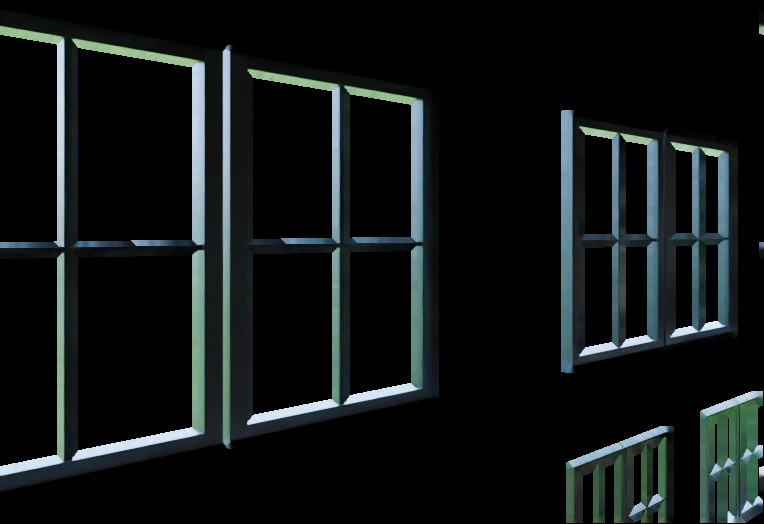
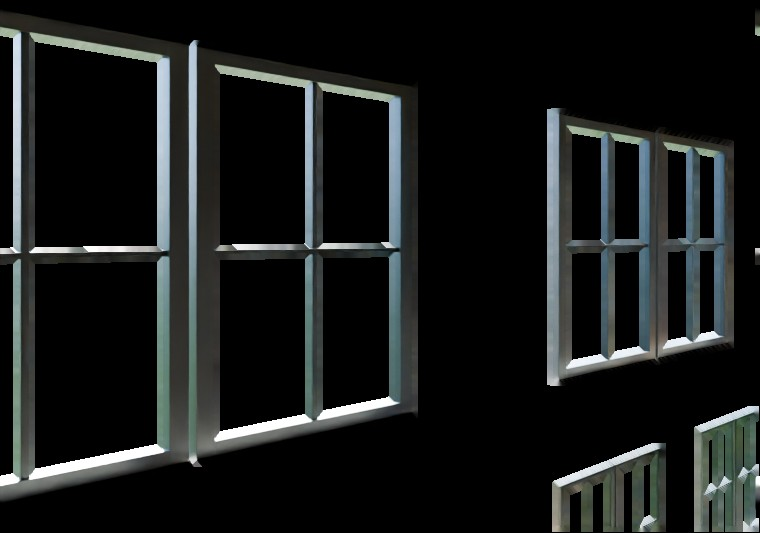
The Lookout 3500 2.0: loft
The Lookout 3500 2.0 page: a picture redone.

- Upstairs loft re-rendered: afternoon sun, cased windows with curtains, a desk by the window; crown molding as a choice, wall paint and window frames as before.

Claude-Session: https://claude.ai/code/session_01LcUu1yMTHs7qUW5E51HSvp

diff --git a/lookout/site.js b/lookout/site.js
@@ -1,1 +1,1 @@
-window.SJ={"name":"The Lookout 3500 2.0","slug":"the-lookout-3500-2","tag":"One-and-a-half-story plan","sub":"Four bedrooms and three and a half baths in 3,760 square feet, with the primary suite on the main level, a lookout room on the roof and a three-car garage.","stats":[["3,760","sq ft finished"],["4","bedrooms"],["3.5","baths"],["3","car garage"],["Main-level","primary suite"],["14 x 16","lookout room"]],"hero":{"day":"img/hero-day.jpg","night":""},"views":[{"id":"hero","name":"Front","kind":"ext","keys":["fas","fd","fdc","g","gdc","lk","prf","pst","rof","sid","trm","win"]},{"id":"yard","name":"Back yard","kind":"ext","keys":["fas","g","lk","pl","prf","pst","rof","sid","trm","win"]},{"id":"great","name":"Living room","kind":"int","keys":["bi","clg","cr","flr","fp","hwc","idc","ids","wal","win"]},{"id":"kitchen","name":"Kitchen","kind":"int","keys":["bsp","cab","cr","ctr","flr","hwc","isl","wal","win"]},{"id":"dining","name":"Dining room","kind":"int","keys":["cr","flr","wal","win"]},{"id":"foyer","name":"Foyer","kind":"int","keys":["cr","fd","fdc","flr","hwc","sf","sr","wal","win"]},{"id":"primary","name":"Primary bedroom","kind":"int","keys":["cr","flr","wal","win"]},{"id":"bath","name":"Primary bath","kind":"int","keys":["btl","cr","ctr","hwc","shw","vcab","wal","win"]},{"id":"office","name":"Loft over the primary closet","kind":"int","keys":["cr","flr","hwc","lof","sf","sr","wal","win"]},{"id":"loft","name":"Upstairs loft","kind":"int","keys":["wal","win"]},{"id":"lookout","name":"Lookout room","kind":"int","keys":["sf","sr","wal","win"],"veil":{"when":{"lk":"0"},"keys":["sf","sr","wal","win"],"note":"Shows in this picture when the lookout room is chosen"}},{"id":"bed2","name":"Bedroom 2","kind":"int","keys":["cpt","uf","wal","win"]},{"id":"bed4","name":"Bedroom 4","kind":"int","keys":["cpt","hwc","idc","uf","wal","win"]},{"id":"lounge","name":"Lower level lounge","kind":"int","keys":["b","cab","ctr","hwc","isl","wal"],"veil":{"when":{"b":"u"},"keys":["cab","ctr","hwc","isl","wal"],"note":"Shows in this picture once the lower level is finished"}},{"id":"bar","name":"Lower level bar","kind":"int","keys":["b","ctr","hwc","isl","wal"],"veil":{"when":{"b":"u"},"keys":["ctr","hwc","isl","wal"],"note":"Shows in this picture once the lower level is finished"}}],"baths":[],"bathkeys":[],"opts":[{"key":"lk","name":"Lookout room","cat":"ext","ch":[{"id":"1","name":"Lookout room on the roof (as drawn)"},{"id":"0","name":"No lookout"}],"note":"The lookout room sits on the roof, 14 x 16 ft with windows all around, reached by its own stair."},{"key":"g","name":"Garage entry","cat":"ext","ch":[{"id":"f","name":"Front entry (as drawn)"},{"id":"s","name":"Side entry, with a motor court"}],"note":"Side entry: the garage wing is re-proportioned and its doors face a motor court at the side; windows take their place on the front."},{"key":"pl","name":"Pool","cat":"ext","ch":[{"id":"n","name":"No pool (as drawn)"},{"id":"1","name":"Lap pool, 10 x 45 ft"},{"id":"2","name":"Plunge pool with a raised spa"},{"id":"3","name":"Courtyard pool with a shade pavilion"}],"note":"The pools sit behind the covered deck, on a paved terrace one step above the lawn."},{"key":"sid","name":"Siding colour","cat":"ext","ch":[{"id":"white","name":"Chantilly White","css":"#F1EFE8"},{"id":"cream","name":"Warm Cream","css":"#E6DCC6"},{"id":"greige","name":"Pebble Greige","css":"#B9B2A3"},{"id":"sage","name":"Sage","css":"#8E9A86"},{"id":"blue","name":"Harbor Blue","css":"#5E768A"},{"id":"navy","name":"Midnight Navy","css":"#28364A"},{"id":"iron","name":"Iron Gray","css":"#45484A"},{"id":"black","name":"Tricorn Black","css":"#222325"}]},{"key":"trm","name":"Trim and corner boards","cat":"ext","ch":[{"id":"white","name":"White","css":"#F4F2EC"},{"id":"cream","name":"Cream","css":"#E9E1CF"},{"id":"black","name":"Black","css":"#1E1F21"},{"id":"bronze","name":"Dark Bronze","css":"#3A322B"}]},{"key":"rof","name":"Roof shingles","cat":"ext","ch":[{"id":"char","name":"Charcoal","css":"linear-gradient(180deg,#33353A 0 50%,#45474C 50%)"},{"id":"onyx","name":"Onyx Black","css":"linear-gradient(180deg,#1D1E21 0 50%,#2A2B2F 50%)"},{"id":"wood","name":"Weathered Wood","css":"linear-gradient(180deg,#5E554B 0 50%,#7A6F62 50%)"},{"id":"slate","name":"Slate Gray","css":"linear-gradient(180deg,#4D5560 0 50%,#69717C 50%)"},{"id":"brown","name":"Barkwood","css":"linear-gradient(180deg,#41342B 0 50%,#5B4A3D 50%)"}]},{"key":"prf","name":"Porch, lookout and accent roofs","cat":"ext","ch":[{"id":"metal","name":"Black standing seam","css":"repeating-linear-gradient(90deg,#1b1c1f 0 7px,#34363a 7px 9px)"},{"id":"copper","name":"Copper standing seam","css":"repeating-linear-gradient(90deg,#9A5A34 0 7px,#c07c4c 7px 9px)"},{"id":"match","name":"Shingles to match","css":"repeating-linear-gradient(0deg,#2a2b2f 0 5px,#1d1e21 5px 10px)"}]},{"key":"fas","name":"Gutters and downspouts","cat":"ext","ch":[{"id":"white","name":"White","css":"#F2F0EA"},{"id":"black","name":"Black","css":"#1B1C1E"},{"id":"bronze","name":"Dark Bronze","css":"#3A322B"}]},{"key":"win","name":"Window frames","cat":"ext","ch":[{"id":"black","name":"Black","css":"#18191B"},{"id":"white","name":"White","css":"#F0EEE8"},{"id":"bronze","name":"Bronze","css":"#3B3129"},{"id":"clay","name":"Clay","css":"#A89F8E"}]},{"key":"fd","name":"Front door","cat":"ext","ch":[{"id":"g","name":"Double doors, glass over a panel"},{"id":"s","name":"Steel-look glass double doors"},{"id":"c","name":"Craftsman door with sidelights"},{"id":"p","name":"Panelled double doors"}],"note":"Every design comes with a transom over the door; its colour is the next choice."},{"key":"fdc","name":"Front door colour","cat":"ext","ch":[{"id":"wood","name":"Stained Walnut","css":"linear-gradient(135deg,#6A4226,#4A2C18)"},{"id":"black","name":"Black","css":"#161719"},{"id":"navy","name":"Navy","css":"#22324A"},{"id":"red","name":"Barn Red","css":"#6E1F1B"},{"id":"teal","name":"Deep Teal","css":"#1F4A4C"},{"id":"sage","name":"Sage","css":"#7C8A74"},{"id":"white","name":"White","css":"#F0EEE8"}]},{"key":"gdc","name":"Garage door colour","cat":"ext","ch":[{"id":"white","name":"White","css":"#EFEDE7"},{"id":"black","name":"Black","css":"#18191B"},{"id":"iron","name":"Iron Gray","css":"#4A4C4E"},{"id":"bronze","name":"Bronze","css":"#3B3129"},{"id":"wood","name":"Walnut","css":"linear-gradient(135deg,#6A4226,#4A2C18)"}]},{"key":"pst","name":"Porch posts and beams","cat":"ext","ch":[{"id":"cedar","name":"Stained cedar","css":"linear-gradient(135deg,#96663A,#774E28)"},{"id":"white","name":"White","css":"#EFEDE7"},{"id":"black","name":"Black","css":"#1F2022"}]},{"key":"b","name":"Lower level","cat":"int","ch":[{"id":"u","name":"Unfinished (as drawn)"},{"id":"f","name":"Finished"}]},{"key":"lof","name":"Loft over the primary closet","cat":"int","ch":[{"id":"o","name":"Home office"},{"id":"l","name":"Library"},{"id":"r","name":"Retreat"}],"note":"The room over the primary closet, up its own spiral stair: 13 x 11 ft with windows on all four sides."},{"key":"clg","name":"Living room ceiling","cat":"int","ch":[{"id":"c","name":"Coffered, painted"},{"id":"o","name":"Coffered, oak beams"},{"id":"b","name":"Timber beams"},{"id":"t","name":"Tray ceiling"}],"note":"Coffers: nine panels framed by beams, centred on the fireplace, with a ring chandelier in the middle."},{"key":"cr","name":"Crown molding","cat":"int","ch":[{"id":"n","name":"None"},{"id":"c","name":"Classic crown, 5 1/4 in."},{"id":"f","name":"Craftsman, flat with a cap"}],"note":"Runs on every wall that meets a flat ceiling: the main level, upstairs, the lookout room, the loft over the closet and the finished lower level."},{"key":"fp","name":"Fireplace","cat":"int","ch":[{"id":"stone","name":"Stacked stone (as drawn)","css":"repeating-linear-gradient(0deg,#8f887c 0 4px,#6f695f 4px 5px)"},{"id":"white","name":"White stacked stone","css":"repeating-linear-gradient(0deg,#E9E6DF 0 4px,#c4c0b7 4px 5px)"},{"id":"brick","name":"Red brick","css":"repeating-linear-gradient(0deg,#8E4A36 0 5px,#B9B2A6 5px 6px)"},{"id":"wbrick","name":"White painted brick","css":"repeating-linear-gradient(0deg,#EDEAE3 0 5px,#cfcbc2 5px 6px)"},{"id":"slate","name":"Charcoal slate tile","css":"repeating-linear-gradient(90deg,#3B3D40 0 12px,#1F2022 12px 13px)"}]},{"key":"bi","name":"Fireplace built-ins","cat":"int","ch":[{"id":"c","name":"Cabinets with oak tops (as drawn)"},{"id":"s","name":"Cabinets and shelves to the ceiling"},{"id":"n","name":"None"}],"note":"The built-ins stand on both sides of the fireplace."},{"key":"ids","name":"Interior door style","cat":"int","ch":[{"id":"s","name":"Two-panel Shaker"},{"id":"f","name":"Five-panel"},{"id":"c","name":"Craftsman, three-panel"}],"note":"8 ft doors on the main level, 6 ft 8 in. upstairs; every opening is cased, with a cap over the head."},{"key":"idc","name":"Interior doors","cat":"int","ch":[{"id":"white","name":"White","css":"#F2F0EA"},{"id":"black","name":"Black","css":"#1E1F21"},{"id":"grey","name":"Gray","css":"#8F9190"},{"id":"oak","name":"Natural oak","css":"linear-gradient(135deg,#B9905E,#A67C4C)"}]},{"key":"sf","name":"Stair treads and handrails","cat":"int","ch":[{"id":"o","name":"Natural oak (as drawn)","css":"linear-gradient(135deg,#B9905E,#A67C4C)"},{"id":"d","name":"Walnut","css":"linear-gradient(135deg,#6A4A32,#573B27)"},{"id":"k","name":"Ebony","css":"linear-gradient(135deg,#30261F,#211A15)"},{"id":"w","name":"Whitewashed oak","css":"linear-gradient(135deg,#D9CDB8,#C9BCA4)"}]},{"key":"sr","name":"Stair balusters","cat":"int","ch":[{"id":"k","name":"Black iron","css":"#141414"},{"id":"w","name":"White","css":"#EFEDE7"},{"id":"b","name":"Satin brass","css":"#B08A4A"}]},{"key":"flr","name":"Hardwood flooring","cat":"int","ch":[{"id":"oak","name":"Natural Oak Plank","css":"repeating-linear-gradient(90deg,#B08F68 0 9px,#9C7B55 9px 18px)"},{"id":"honey","name":"Honey Oak","css":"repeating-linear-gradient(90deg,#B8834A 0 9px,#A2703C 9px 18px)"},{"id":"grey","name":"Driftwood Gray","css":"repeating-linear-gradient(90deg,#9A9288 0 9px,#857D73 9px 18px)"},{"id":"walnut","name":"Walnut","css":"repeating-linear-gradient(90deg,#6A4A32 0 9px,#573B27 9px 18px)"},{"id":"white","name":"Whitewashed","css":"repeating-linear-gradient(90deg,#CFC3B0 0 9px,#BFB29E 9px 18px)"}]},{"key":"uf","name":"Bedroom flooring","cat":"int","ch":[{"id":"c","name":"Carpet (as shown)","css":"repeating-linear-gradient(45deg,#C9C0AE 0 3px,#BDB4A2 3px 6px)"},{"id":"oak","name":"Natural Oak Plank","css":"repeating-linear-gradient(90deg,#B08F68 0 9px,#9C7B55 9px 18px)"},{"id":"honey","name":"Honey Oak","css":"repeating-linear-gradient(90deg,#B8834A 0 9px,#A2703C 9px 18px)"},{"id":"grey","name":"Driftwood Gray","css":"repeating-linear-gradient(90deg,#9A9288 0 9px,#857D73 9px 18px)"},{"id":"walnut","name":"Walnut","css":"repeating-linear-gradient(90deg,#6A4A32 0 9px,#573B27 9px 18px)"},{"id":"white","name":"Whitewashed","css":"repeating-linear-gradient(90deg,#CFC3B0 0 9px,#BFB29E 9px 18px)"}]},{"key":"cpt","name":"Carpet","cat":"int","ch":[{"id":"oat","name":"Oatmeal","css":"#C9C0AE"},{"id":"grey","name":"Silver","css":"#B5B3AE"},{"id":"taupe","name":"Taupe","css":"#A39685"}],"only":{"uf":"c"}},{"key":"wal","name":"Wall paint","cat":"int","ch":[{"id":"alab","name":"Alabaster","css":"#EDEAE0"},{"id":"grey","name":"Agreeable Gray","css":"#D1CBC1"},{"id":"greige","name":"Accessible Beige","css":"#D1C7B8"},{"id":"blue","name":"Sea Salt","css":"#CDD2CA"},{"id":"white","name":"Pure White","css":"#F2F0EB"}]},{"key":"cab","name":"Kitchen cabinets","cat":"int","ch":[{"id":"white","name":"White Shaker","css":"#EFEDE7"},{"id":"grey","name":"Dove Gray","css":"#A9ABA8"},{"id":"sage","name":"Sage","css":"#8A967F"},{"id":"navy","name":"Navy","css":"#27364B"},{"id":"black","name":"Black","css":"#1F2022"},{"id":"oak","name":"Natural Oak","css":"linear-gradient(135deg,#B9905E,#A67C4C)"}]},{"key":"isl","name":"Island and range hood","cat":"int","ch":[{"id":"navy","name":"Navy","css":"#27364B"},{"id":"white","name":"White","css":"#EFEDE7"},{"id":"oak","name":"Natural Oak","css":"linear-gradient(135deg,#B9905E,#A67C4C)"},{"id":"black","name":"Black","css":"#1F2022"},{"id":"sage","name":"Sage","css":"#8A967F"}]},{"key":"ctr","name":"Countertops","cat":"int","ch":[{"id":"white","name":"White Quartz","css":"#EEEBE4"},{"id":"marble","name":"Marble-look Quartz","css":"linear-gradient(120deg,#ECE9E3 0 40%,#b9b6ae 44%,#ECE9E3 48% 70%,#c9c6be 74%,#ECE9E3 78%)"},{"id":"black","name":"Black Granite","css":"linear-gradient(120deg,#17181A 0 55%,#4a4a48 60%,#17181A 65%)"},{"id":"grey","name":"Concrete Gray","css":"#9A9894"}]},{"key":"bsp","name":"Backsplash","cat":"int","ch":[{"id":"slab","name":"Marble slab","css":"linear-gradient(120deg,#ECE9E3 0 40%,#b9b6ae 44%,#ECE9E3 48% 70%,#c9c6be 74%,#ECE9E3 78%)"},{"id":"subway","name":"White Subway","css":"repeating-linear-gradient(0deg,#F0EEE8 0 8px,#cfccc4 8px 9px)"},{"id":"green","name":"Sage Zellige","css":"repeating-linear-gradient(0deg,#8FA08A 0 8px,#6f806a 8px 9px)"},{"id":"grey","name":"Gray Subway","css":"repeating-linear-gradient(0deg,#B4B6B4 0 8px,#8f918f 8px 9px)"},{"id":"black","name":"Black Subway","css":"repeating-linear-gradient(0deg,#232426 0 8px,#6A6A68 8px 9px)"}]},{"key":"vcab","name":"Bathroom vanities","cat":"int","ch":[{"id":"oak","name":"Natural oak","css":"linear-gradient(135deg,#B9905E,#A67C4C)"},{"id":"white","name":"White","css":"#EFEDE7"},{"id":"navy","name":"Navy","css":"#27364B"},{"id":"sage","name":"Sage","css":"#8A967F"},{"id":"black","name":"Black","css":"#1F2022"},{"id":"walnut","name":"Walnut","css":"linear-gradient(135deg,#6A4A32,#573B27)"}]},{"key":"shw","name":"Shower walls","cat":"int","ch":[{"id":"slab","name":"Marble slab","css":"linear-gradient(120deg,#ECE9E3 0 40%,#b9b6ae 44%,#ECE9E3 48% 70%,#c9c6be 74%,#ECE9E3 78%)"},{"id":"subway","name":"White subway tile","css":"repeating-linear-gradient(0deg,#F0EEE8 0 8px,#cfccc4 8px 9px)"},{"id":"zel","name":"Sage zellige","css":"repeating-linear-gradient(0deg,#8FA08A 0 8px,#6f806a 8px 9px)"},{"id":"slate","name":"Charcoal slate","css":"repeating-linear-gradient(90deg,#3B3D40 0 14px,#1F2022 14px 15px)"},{"id":"trav","name":"Warm limestone","css":"repeating-linear-gradient(90deg,#D9CDB8 0 14px,#B8AC96 14px 15px)"}],"note":"The primary bath's wet room, and the wall behind the tub in each upstairs bath."},{"key":"btl","name":"Bath floor tile","cat":"int","ch":[{"id":"w","name":"White porcelain","css":"repeating-linear-gradient(90deg,#EDEBE6 0 12px,#B9B6AE 12px 13px)"},{"id":"g","name":"Warm gray","css":"repeating-linear-gradient(90deg,#B9B2A6 0 12px,#8C867B 12px 13px)"},{"id":"m","name":"Marble look","css":"linear-gradient(120deg,#ECEAE6 0 40%,#c4c1bb 46%,#ECEAE6 52%)"},{"id":"c","name":"Charcoal slate","css":"repeating-linear-gradient(90deg,#4A4C4F 0 12px,#2C2D2F 12px 13px)"}]},{"key":"hwc","name":"Hardware and faucets","cat":"int","ch":[{"id":"brass","name":"Satin Brass","css":"#B08A4A"},{"id":"black","name":"Matte Black","css":"#101011"},{"id":"nickel","name":"Satin Nickel","css":"#9A9A98"}]}],"defaults":{"sid":"white","trm":"white","fas":"white","win":"black","fdc":"wood","gdc":"white","rof":"char","prf":"metal","lk":"1","g":"f","b":"u","pl":"n","fd":"g","pst":"cedar","clg":"c","cr":"n","fp":"stone","bi":"c","sf":"o","sr":"k","idc":"white","ids":"s","lof":"o","hwc":"brass","wal":"alab","cab":"white","isl":"navy","ctr":"marble","bsp":"slab","vcab":"oak","shw":"slab","btl":"w","flr":"oak","cpt":"oat","uf":"c"},"gallery":[],"looks":[{"cat":"ext","name":"Modern farmhouse (as drawn)","set":{}},{"cat":"ext","name":"Midnight and copper","set":{"sid":"navy","prf":"copper","gdc":"wood","rof":"onyx"}},{"cat":"ext","name":"Sage cottage","set":{"sid":"sage","trm":"cream","fas":"bronze","win":"white","rof":"wood","fdc":"navy","fd":"c"}},{"cat":"ext","name":"Charcoal modern","set":{"sid":"iron","trm":"black","fas":"black","rof":"onyx","gdc":"black","fdc":"black","fd":"s"}},{"cat":"ext","name":"Coastal blue","set":{"sid":"blue","win":"white","rof":"slate","fdc":"navy"}},{"cat":"ext","name":"Warm greige","set":{"sid":"greige","trm":"cream","fas":"bronze","win":"bronze","rof":"brown","gdc":"bronze","fd":"p"}},{"cat":"ext","name":"Black barn","set":{"sid":"black","trm":"black","fas":"black","gdc":"wood","prf":"copper","fd":"p"}},{"cat":"int","name":"Light and warm (as shown)","set":{}},{"cat":"int","name":"Warm oak","set":{"isl":"oak","ctr":"marble","flr":"honey","wal":"greige","clg":"o","cr":"f","ids":"c"}},{"cat":"int","name":"Deep and moody","set":{"cab":"navy","bsp":"grey","flr":"walnut","wal":"grey","idc":"black","clg":"b","cr":"c","vcab":"navy","shw":"slate","lof":"l"}},{"cat":"int","name":"Scandinavian","set":{"isl":"white","flr":"white","wal":"white","hwc":"black","clg":"t","ids":"f","vcab":"white","shw":"subway"}},{"cat":"int","name":"Sage kitchen","set":{"cab":"sage","isl":"oak","bsp":"green","vcab":"sage","shw":"zel","lof":"r"}},{"cat":"int","name":"Black and white","set":{"cab":"black","isl":"white","ctr":"marble","flr":"grey","wal":"white","hwc":"nickel","idc":"black","ids":"c","cr":"c","vcab":"black","shw":"subway"}},{"cat":"int","name":"Everything added","set":{"cr":"c","clg":"o","bi":"s","ids":"c","lof":"l","b":"f"}}],"plan_lead":"Each level seen from straight above, with everything over it taken away. Furniture is illustrative.","plans":[{"id":"main_f","name":"Main level","note":"2,144 sq ft: living, dining and kitchen in the core, the primary suite in its own wing, a three-car garage","svg":"<img src=\"img/plan-main_f.jpg\" alt=\"Main level, seen from above with the levels over it taken away\" style=\"width:100%;height:auto;display:block;border-radius:10px\">"},{"id":"main_s","name":"Main level, side-entry garage","note":"The same rooms; the garage wing is re-proportioned and entered from a motor court at the side","svg":"<img src=\"img/plan-main_s.jpg\" alt=\"Main level, side-entry garage, seen from above with the levels over it taken away\" style=\"width:100%;height:auto;display:block;border-radius:10px\">"},{"id":"upper","name":"Upstairs","note":"1,224 sq ft: three bedrooms, two baths, the loft and a laundry; the office loft sits over the primary closet","svg":"<img src=\"img/plan-upper.jpg\" alt=\"Upstairs, seen from above with the levels over it taken away\" style=\"width:100%;height:auto;display:block;border-radius:10px\">"},{"id":"look","name":"Lookout","note":"224 sq ft: the lookout room on the roof, windows on all four sides","svg":"<img src=\"img/plan-look.jpg\" alt=\"Lookout, seen from above with the levels over it taken away\" style=\"width:100%;height:auto;display:block;border-radius:10px\">"},{"id":"bsmt_u","name":"Lower level","note":"Unfinished, as drawn: a safe room, mechanical space and rough-ins for a bath and a wet bar","svg":"<img src=\"img/plan-bsmt_u.jpg\" alt=\"Lower level, seen from above with the levels over it taken away\" style=\"width:100%;height:auto;display:block;border-radius:10px\">"},{"id":"bsmt_f","name":"Lower level, finished","note":"Lounge, bar, gym, bath and sauna, with the safe room, storage and mechanical space","svg":"<img src=\"img/plan-bsmt_f.jpg\" alt=\"Lower level, finished, seen from above with the levels over it taken away\" style=\"width:100%;height:auto;display:block;border-radius:10px\">"}],"lot":null,"specs":[{"h":"The home","items":["3,760 sq ft finished: 2,144 on the main level, 1,224 upstairs, a 168 sq ft office loft and the 224 sq ft lookout room","Four bedrooms and three and a half baths; the primary suite is on the main level in its own wing","The primary suite: a 20 x 20 bedroom with a door to the covered deck, a spa bath and a walk-in closet, about 800 sq ft in all","Three-car garage in a wing of its own, front entry or side entry","Core 34 x 36 ft, two stories; the garage wing 32 x 24 ft and the primary wing 20 x 46 ft are one story"]},{"h":"Rooms","items":["Main level: foyer, dining room, living room with a fireplace and a 12 ft slider to the covered deck, kitchen with a prep kitchen and pantry, mudroom, powder room, laundry","Upstairs: three bedrooms, two baths, a loft, a second laundry","An office loft over the primary closet, reached by its own spiral stair","The lookout room: 14 x 16 ft on the roof, windows on all four sides"]},{"h":"Heights and roof","items":["10 ft ceilings on the main level","Gable roofs with standing-seam accents over the porch, the lookout and the garage doors","Covered 16 x 14 ft deck off the living room; covered front porch on timber posts"]},{"h":"Inside finish","items":["Living room ceiling: nine coffers centred on the fireplace with a ring chandelier, painted or in oak; timber beams or a tray ceiling instead","Doors: 8 ft on the main level and 6 ft 8 in. upstairs, in three panel styles, every opening cased with a cap over the head","Crown molding as a choice on every level, classic or craftsman","Front door in four designs under a transom: glass over a panel, steel-look glass, craftsman with sidelights, or panelled","Baths: vanity cabinets and shower walls chosen apart from the kitchen","The loft over the primary closet as a home office, a library or a retreat"]},{"h":"Outside","items":["Board-and-batten siding with trim boards at corners and openings","Black-framed windows with grids","A full basement under the core"]}],"foot":["The pictures and the design studio on this page are computer renderings of a 3D model of the plan. Furniture, planting and the land around the house are illustrative; the plan is not drawn on a particular lot.","Finishes offered in the design studio are examples for planning, not a builder's price list. A builder's plan set and contract govern."],"tour":null,"model3d":{"src":"3d/","poster":"img/hero-day.jpg"}};
+window.SJ={"name":"The Lookout 3500 2.0","slug":"the-lookout-3500-2","tag":"One-and-a-half-story plan","sub":"Four bedrooms and three and a half baths in 3,760 square feet, with the primary suite on the main level, a lookout room on the roof and a three-car garage.","stats":[["3,760","sq ft finished"],["4","bedrooms"],["3.5","baths"],["3","car garage"],["Main-level","primary suite"],["14 x 16","lookout room"]],"hero":{"day":"img/hero-day.jpg","night":""},"views":[{"id":"hero","name":"Front","kind":"ext","keys":["fas","fd","fdc","g","gdc","lk","prf","pst","rof","sid","trm","win"]},{"id":"yard","name":"Back yard","kind":"ext","keys":["fas","g","lk","pl","prf","pst","rof","sid","trm","win"]},{"id":"great","name":"Living room","kind":"int","keys":["bi","clg","cr","flr","fp","hwc","idc","ids","wal","win"]},{"id":"kitchen","name":"Kitchen","kind":"int","keys":["bsp","cab","cr","ctr","flr","hwc","isl","wal","win"]},{"id":"dining","name":"Dining room","kind":"int","keys":["cr","flr","wal","win"]},{"id":"foyer","name":"Foyer","kind":"int","keys":["cr","fd","fdc","flr","hwc","sf","sr","wal","win"]},{"id":"primary","name":"Primary bedroom","kind":"int","keys":["cr","flr","wal","win"]},{"id":"bath","name":"Primary bath","kind":"int","keys":["btl","cr","ctr","hwc","shw","vcab","wal","win"]},{"id":"office","name":"Loft over the primary closet","kind":"int","keys":["cr","flr","hwc","lof","sf","sr","wal","win"]},{"id":"loft","name":"Upstairs loft","kind":"int","keys":["cr","wal","win"]},{"id":"lookout","name":"Lookout room","kind":"int","keys":["sf","sr","wal","win"],"veil":{"when":{"lk":"0"},"keys":["sf","sr","wal","win"],"note":"Shows in this picture when the lookout room is chosen"}},{"id":"bed2","name":"Bedroom 2","kind":"int","keys":["cpt","uf","wal","win"]},{"id":"bed4","name":"Bedroom 4","kind":"int","keys":["cpt","hwc","idc","uf","wal","win"]},{"id":"lounge","name":"Lower level lounge","kind":"int","keys":["b","cab","ctr","hwc","isl","wal"],"veil":{"when":{"b":"u"},"keys":["cab","ctr","hwc","isl","wal"],"note":"Shows in this picture once the lower level is finished"}},{"id":"bar","name":"Lower level bar","kind":"int","keys":["b","ctr","hwc","isl","wal"],"veil":{"when":{"b":"u"},"keys":["ctr","hwc","isl","wal"],"note":"Shows in this picture once the lower level is finished"}}],"baths":[],"bathkeys":[],"opts":[{"key":"lk","name":"Lookout room","cat":"ext","ch":[{"id":"1","name":"Lookout room on the roof (as drawn)"},{"id":"0","name":"No lookout"}],"note":"The lookout room sits on the roof, 14 x 16 ft with windows all around, reached by its own stair."},{"key":"g","name":"Garage entry","cat":"ext","ch":[{"id":"f","name":"Front entry (as drawn)"},{"id":"s","name":"Side entry, with a motor court"}],"note":"Side entry: the garage wing is re-proportioned and its doors face a motor court at the side; windows take their place on the front."},{"key":"pl","name":"Pool","cat":"ext","ch":[{"id":"n","name":"No pool (as drawn)"},{"id":"1","name":"Lap pool, 10 x 45 ft"},{"id":"2","name":"Plunge pool with a raised spa"},{"id":"3","name":"Courtyard pool with a shade pavilion"}],"note":"The pools sit behind the covered deck, on a paved terrace one step above the lawn."},{"key":"sid","name":"Siding colour","cat":"ext","ch":[{"id":"white","name":"Chantilly White","css":"#F1EFE8"},{"id":"cream","name":"Warm Cream","css":"#E6DCC6"},{"id":"greige","name":"Pebble Greige","css":"#B9B2A3"},{"id":"sage","name":"Sage","css":"#8E9A86"},{"id":"blue","name":"Harbor Blue","css":"#5E768A"},{"id":"navy","name":"Midnight Navy","css":"#28364A"},{"id":"iron","name":"Iron Gray","css":"#45484A"},{"id":"black","name":"Tricorn Black","css":"#222325"}]},{"key":"trm","name":"Trim and corner boards","cat":"ext","ch":[{"id":"white","name":"White","css":"#F4F2EC"},{"id":"cream","name":"Cream","css":"#E9E1CF"},{"id":"black","name":"Black","css":"#1E1F21"},{"id":"bronze","name":"Dark Bronze","css":"#3A322B"}]},{"key":"rof","name":"Roof shingles","cat":"ext","ch":[{"id":"char","name":"Charcoal","css":"linear-gradient(180deg,#33353A 0 50%,#45474C 50%)"},{"id":"onyx","name":"Onyx Black","css":"linear-gradient(180deg,#1D1E21 0 50%,#2A2B2F 50%)"},{"id":"wood","name":"Weathered Wood","css":"linear-gradient(180deg,#5E554B 0 50%,#7A6F62 50%)"},{"id":"slate","name":"Slate Gray","css":"linear-gradient(180deg,#4D5560 0 50%,#69717C 50%)"},{"id":"brown","name":"Barkwood","css":"linear-gradient(180deg,#41342B 0 50%,#5B4A3D 50%)"}]},{"key":"prf","name":"Porch, lookout and accent roofs","cat":"ext","ch":[{"id":"metal","name":"Black standing seam","css":"repeating-linear-gradient(90deg,#1b1c1f 0 7px,#34363a 7px 9px)"},{"id":"copper","name":"Copper standing seam","css":"repeating-linear-gradient(90deg,#9A5A34 0 7px,#c07c4c 7px 9px)"},{"id":"match","name":"Shingles to match","css":"repeating-linear-gradient(0deg,#2a2b2f 0 5px,#1d1e21 5px 10px)"}]},{"key":"fas","name":"Gutters and downspouts","cat":"ext","ch":[{"id":"white","name":"White","css":"#F2F0EA"},{"id":"black","name":"Black","css":"#1B1C1E"},{"id":"bronze","name":"Dark Bronze","css":"#3A322B"}]},{"key":"win","name":"Window frames","cat":"ext","ch":[{"id":"black","name":"Black","css":"#18191B"},{"id":"white","name":"White","css":"#F0EEE8"},{"id":"bronze","name":"Bronze","css":"#3B3129"},{"id":"clay","name":"Clay","css":"#A89F8E"}]},{"key":"fd","name":"Front door","cat":"ext","ch":[{"id":"g","name":"Double doors, glass over a panel"},{"id":"s","name":"Steel-look glass double doors"},{"id":"c","name":"Craftsman door with sidelights"},{"id":"p","name":"Panelled double doors"}],"note":"Every design comes with a transom over the door; its colour is the next choice."},{"key":"fdc","name":"Front door colour","cat":"ext","ch":[{"id":"wood","name":"Stained Walnut","css":"linear-gradient(135deg,#6A4226,#4A2C18)"},{"id":"black","name":"Black","css":"#161719"},{"id":"navy","name":"Navy","css":"#22324A"},{"id":"red","name":"Barn Red","css":"#6E1F1B"},{"id":"teal","name":"Deep Teal","css":"#1F4A4C"},{"id":"sage","name":"Sage","css":"#7C8A74"},{"id":"white","name":"White","css":"#F0EEE8"}]},{"key":"gdc","name":"Garage door colour","cat":"ext","ch":[{"id":"white","name":"White","css":"#EFEDE7"},{"id":"black","name":"Black","css":"#18191B"},{"id":"iron","name":"Iron Gray","css":"#4A4C4E"},{"id":"bronze","name":"Bronze","css":"#3B3129"},{"id":"wood","name":"Walnut","css":"linear-gradient(135deg,#6A4226,#4A2C18)"}]},{"key":"pst","name":"Porch posts and beams","cat":"ext","ch":[{"id":"cedar","name":"Stained cedar","css":"linear-gradient(135deg,#96663A,#774E28)"},{"id":"white","name":"White","css":"#EFEDE7"},{"id":"black","name":"Black","css":"#1F2022"}]},{"key":"b","name":"Lower level","cat":"int","ch":[{"id":"u","name":"Unfinished (as drawn)"},{"id":"f","name":"Finished"}]},{"key":"lof","name":"Loft over the primary closet","cat":"int","ch":[{"id":"o","name":"Home office"},{"id":"l","name":"Library"},{"id":"r","name":"Retreat"}],"note":"The room over the primary closet, up its own spiral stair: 13 x 11 ft with windows on all four sides."},{"key":"clg","name":"Living room ceiling","cat":"int","ch":[{"id":"c","name":"Coffered, painted"},{"id":"o","name":"Coffered, oak beams"},{"id":"b","name":"Timber beams"},{"id":"t","name":"Tray ceiling"}],"note":"Coffers: nine panels framed by beams, centred on the fireplace, with a ring chandelier in the middle."},{"key":"cr","name":"Crown molding","cat":"int","ch":[{"id":"n","name":"None"},{"id":"c","name":"Classic crown, 5 1/4 in."},{"id":"f","name":"Craftsman, flat with a cap"}],"note":"Runs on every wall that meets a flat ceiling: the main level, upstairs, the lookout room, the loft over the closet and the finished lower level."},{"key":"fp","name":"Fireplace","cat":"int","ch":[{"id":"stone","name":"Stacked stone (as drawn)","css":"repeating-linear-gradient(0deg,#8f887c 0 4px,#6f695f 4px 5px)"},{"id":"white","name":"White stacked stone","css":"repeating-linear-gradient(0deg,#E9E6DF 0 4px,#c4c0b7 4px 5px)"},{"id":"brick","name":"Red brick","css":"repeating-linear-gradient(0deg,#8E4A36 0 5px,#B9B2A6 5px 6px)"},{"id":"wbrick","name":"White painted brick","css":"repeating-linear-gradient(0deg,#EDEAE3 0 5px,#cfcbc2 5px 6px)"},{"id":"slate","name":"Charcoal slate tile","css":"repeating-linear-gradient(90deg,#3B3D40 0 12px,#1F2022 12px 13px)"}]},{"key":"bi","name":"Fireplace built-ins","cat":"int","ch":[{"id":"c","name":"Cabinets with oak tops (as drawn)"},{"id":"s","name":"Cabinets and shelves to the ceiling"},{"id":"n","name":"None"}],"note":"The built-ins stand on both sides of the fireplace."},{"key":"ids","name":"Interior door style","cat":"int","ch":[{"id":"s","name":"Two-panel Shaker"},{"id":"f","name":"Five-panel"},{"id":"c","name":"Craftsman, three-panel"}],"note":"8 ft doors on the main level, 6 ft 8 in. upstairs; every opening is cased, with a cap over the head."},{"key":"idc","name":"Interior doors","cat":"int","ch":[{"id":"white","name":"White","css":"#F2F0EA"},{"id":"black","name":"Black","css":"#1E1F21"},{"id":"grey","name":"Gray","css":"#8F9190"},{"id":"oak","name":"Natural oak","css":"linear-gradient(135deg,#B9905E,#A67C4C)"}]},{"key":"sf","name":"Stair treads and handrails","cat":"int","ch":[{"id":"o","name":"Natural oak (as drawn)","css":"linear-gradient(135deg,#B9905E,#A67C4C)"},{"id":"d","name":"Walnut","css":"linear-gradient(135deg,#6A4A32,#573B27)"},{"id":"k","name":"Ebony","css":"linear-gradient(135deg,#30261F,#211A15)"},{"id":"w","name":"Whitewashed oak","css":"linear-gradient(135deg,#D9CDB8,#C9BCA4)"}]},{"key":"sr","name":"Stair balusters","cat":"int","ch":[{"id":"k","name":"Black iron","css":"#141414"},{"id":"w","name":"White","css":"#EFEDE7"},{"id":"b","name":"Satin brass","css":"#B08A4A"}]},{"key":"flr","name":"Hardwood flooring","cat":"int","ch":[{"id":"oak","name":"Natural Oak Plank","css":"repeating-linear-gradient(90deg,#B08F68 0 9px,#9C7B55 9px 18px)"},{"id":"honey","name":"Honey Oak","css":"repeating-linear-gradient(90deg,#B8834A 0 9px,#A2703C 9px 18px)"},{"id":"grey","name":"Driftwood Gray","css":"repeating-linear-gradient(90deg,#9A9288 0 9px,#857D73 9px 18px)"},{"id":"walnut","name":"Walnut","css":"repeating-linear-gradient(90deg,#6A4A32 0 9px,#573B27 9px 18px)"},{"id":"white","name":"Whitewashed","css":"repeating-linear-gradient(90deg,#CFC3B0 0 9px,#BFB29E 9px 18px)"}]},{"key":"uf","name":"Bedroom flooring","cat":"int","ch":[{"id":"c","name":"Carpet (as shown)","css":"repeating-linear-gradient(45deg,#C9C0AE 0 3px,#BDB4A2 3px 6px)"},{"id":"oak","name":"Natural Oak Plank","css":"repeating-linear-gradient(90deg,#B08F68 0 9px,#9C7B55 9px 18px)"},{"id":"honey","name":"Honey Oak","css":"repeating-linear-gradient(90deg,#B8834A 0 9px,#A2703C 9px 18px)"},{"id":"grey","name":"Driftwood Gray","css":"repeating-linear-gradient(90deg,#9A9288 0 9px,#857D73 9px 18px)"},{"id":"walnut","name":"Walnut","css":"repeating-linear-gradient(90deg,#6A4A32 0 9px,#573B27 9px 18px)"},{"id":"white","name":"Whitewashed","css":"repeating-linear-gradient(90deg,#CFC3B0 0 9px,#BFB29E 9px 18px)"}]},{"key":"cpt","name":"Carpet","cat":"int","ch":[{"id":"oat","name":"Oatmeal","css":"#C9C0AE"},{"id":"grey","name":"Silver","css":"#B5B3AE"},{"id":"taupe","name":"Taupe","css":"#A39685"}],"only":{"uf":"c"}},{"key":"wal","name":"Wall paint","cat":"int","ch":[{"id":"alab","name":"Alabaster","css":"#EDEAE0"},{"id":"grey","name":"Agreeable Gray","css":"#D1CBC1"},{"id":"greige","name":"Accessible Beige","css":"#D1C7B8"},{"id":"blue","name":"Sea Salt","css":"#CDD2CA"},{"id":"white","name":"Pure White","css":"#F2F0EB"}]},{"key":"cab","name":"Kitchen cabinets","cat":"int","ch":[{"id":"white","name":"White Shaker","css":"#EFEDE7"},{"id":"grey","name":"Dove Gray","css":"#A9ABA8"},{"id":"sage","name":"Sage","css":"#8A967F"},{"id":"navy","name":"Navy","css":"#27364B"},{"id":"black","name":"Black","css":"#1F2022"},{"id":"oak","name":"Natural Oak","css":"linear-gradient(135deg,#B9905E,#A67C4C)"}]},{"key":"isl","name":"Island and range hood","cat":"int","ch":[{"id":"navy","name":"Navy","css":"#27364B"},{"id":"white","name":"White","css":"#EFEDE7"},{"id":"oak","name":"Natural Oak","css":"linear-gradient(135deg,#B9905E,#A67C4C)"},{"id":"black","name":"Black","css":"#1F2022"},{"id":"sage","name":"Sage","css":"#8A967F"}]},{"key":"ctr","name":"Countertops","cat":"int","ch":[{"id":"white","name":"White Quartz","css":"#EEEBE4"},{"id":"marble","name":"Marble-look Quartz","css":"linear-gradient(120deg,#ECE9E3 0 40%,#b9b6ae 44%,#ECE9E3 48% 70%,#c9c6be 74%,#ECE9E3 78%)"},{"id":"black","name":"Black Granite","css":"linear-gradient(120deg,#17181A 0 55%,#4a4a48 60%,#17181A 65%)"},{"id":"grey","name":"Concrete Gray","css":"#9A9894"}]},{"key":"bsp","name":"Backsplash","cat":"int","ch":[{"id":"slab","name":"Marble slab","css":"linear-gradient(120deg,#ECE9E3 0 40%,#b9b6ae 44%,#ECE9E3 48% 70%,#c9c6be 74%,#ECE9E3 78%)"},{"id":"subway","name":"White Subway","css":"repeating-linear-gradient(0deg,#F0EEE8 0 8px,#cfccc4 8px 9px)"},{"id":"green","name":"Sage Zellige","css":"repeating-linear-gradient(0deg,#8FA08A 0 8px,#6f806a 8px 9px)"},{"id":"grey","name":"Gray Subway","css":"repeating-linear-gradient(0deg,#B4B6B4 0 8px,#8f918f 8px 9px)"},{"id":"black","name":"Black Subway","css":"repeating-linear-gradient(0deg,#232426 0 8px,#6A6A68 8px 9px)"}]},{"key":"vcab","name":"Bathroom vanities","cat":"int","ch":[{"id":"oak","name":"Natural oak","css":"linear-gradient(135deg,#B9905E,#A67C4C)"},{"id":"white","name":"White","css":"#EFEDE7"},{"id":"navy","name":"Navy","css":"#27364B"},{"id":"sage","name":"Sage","css":"#8A967F"},{"id":"black","name":"Black","css":"#1F2022"},{"id":"walnut","name":"Walnut","css":"linear-gradient(135deg,#6A4A32,#573B27)"}]},{"key":"shw","name":"Shower walls","cat":"int","ch":[{"id":"slab","name":"Marble slab","css":"linear-gradient(120deg,#ECE9E3 0 40%,#b9b6ae 44%,#ECE9E3 48% 70%,#c9c6be 74%,#ECE9E3 78%)"},{"id":"subway","name":"White subway tile","css":"repeating-linear-gradient(0deg,#F0EEE8 0 8px,#cfccc4 8px 9px)"},{"id":"zel","name":"Sage zellige","css":"repeating-linear-gradient(0deg,#8FA08A 0 8px,#6f806a 8px 9px)"},{"id":"slate","name":"Charcoal slate","css":"repeating-linear-gradient(90deg,#3B3D40 0 14px,#1F2022 14px 15px)"},{"id":"trav","name":"Warm limestone","css":"repeating-linear-gradient(90deg,#D9CDB8 0 14px,#B8AC96 14px 15px)"}],"note":"The primary bath's wet room, and the wall behind the tub in each upstairs bath."},{"key":"btl","name":"Bath floor tile","cat":"int","ch":[{"id":"w","name":"White porcelain","css":"repeating-linear-gradient(90deg,#EDEBE6 0 12px,#B9B6AE 12px 13px)"},{"id":"g","name":"Warm gray","css":"repeating-linear-gradient(90deg,#B9B2A6 0 12px,#8C867B 12px 13px)"},{"id":"m","name":"Marble look","css":"linear-gradient(120deg,#ECEAE6 0 40%,#c4c1bb 46%,#ECEAE6 52%)"},{"id":"c","name":"Charcoal slate","css":"repeating-linear-gradient(90deg,#4A4C4F 0 12px,#2C2D2F 12px 13px)"}]},{"key":"hwc","name":"Hardware and faucets","cat":"int","ch":[{"id":"brass","name":"Satin Brass","css":"#B08A4A"},{"id":"black","name":"Matte Black","css":"#101011"},{"id":"nickel","name":"Satin Nickel","css":"#9A9A98"}]}],"defaults":{"sid":"white","trm":"white","fas":"white","win":"black","fdc":"wood","gdc":"white","rof":"char","prf":"metal","lk":"1","g":"f","b":"u","pl":"n","fd":"g","pst":"cedar","clg":"c","cr":"n","fp":"stone","bi":"c","sf":"o","sr":"k","idc":"white","ids":"s","lof":"o","hwc":"brass","wal":"alab","cab":"white","isl":"navy","ctr":"marble","bsp":"slab","vcab":"oak","shw":"slab","btl":"w","flr":"oak","cpt":"oat","uf":"c"},"gallery":[],"looks":[{"cat":"ext","name":"Modern farmhouse (as drawn)","set":{}},{"cat":"ext","name":"Midnight and copper","set":{"sid":"navy","prf":"copper","gdc":"wood","rof":"onyx"}},{"cat":"ext","name":"Sage cottage","set":{"sid":"sage","trm":"cream","fas":"bronze","win":"white","rof":"wood","fdc":"navy","fd":"c"}},{"cat":"ext","name":"Charcoal modern","set":{"sid":"iron","trm":"black","fas":"black","rof":"onyx","gdc":"black","fdc":"black","fd":"s"}},{"cat":"ext","name":"Coastal blue","set":{"sid":"blue","win":"white","rof":"slate","fdc":"navy"}},{"cat":"ext","name":"Warm greige","set":{"sid":"greige","trm":"cream","fas":"bronze","win":"bronze","rof":"brown","gdc":"bronze","fd":"p"}},{"cat":"ext","name":"Black barn","set":{"sid":"black","trm":"black","fas":"black","gdc":"wood","prf":"copper","fd":"p"}},{"cat":"int","name":"Light and warm (as shown)","set":{}},{"cat":"int","name":"Warm oak","set":{"isl":"oak","ctr":"marble","flr":"honey","wal":"greige","clg":"o","cr":"f","ids":"c"}},{"cat":"int","name":"Deep and moody","set":{"cab":"navy","bsp":"grey","flr":"walnut","wal":"grey","idc":"black","clg":"b","cr":"c","vcab":"navy","shw":"slate","lof":"l"}},{"cat":"int","name":"Scandinavian","set":{"isl":"white","flr":"white","wal":"white","hwc":"black","clg":"t","ids":"f","vcab":"white","shw":"subway"}},{"cat":"int","name":"Sage kitchen","set":{"cab":"sage","isl":"oak","bsp":"green","vcab":"sage","shw":"zel","lof":"r"}},{"cat":"int","name":"Black and white","set":{"cab":"black","isl":"white","ctr":"marble","flr":"grey","wal":"white","hwc":"nickel","idc":"black","ids":"c","cr":"c","vcab":"black","shw":"subway"}},{"cat":"int","name":"Everything added","set":{"cr":"c","clg":"o","bi":"s","ids":"c","lof":"l","b":"f"}}],"plan_lead":"Each level seen from straight above, with everything over it taken away. Furniture is illustrative.","plans":[{"id":"main_f","name":"Main level","note":"2,144 sq ft: living, dining and kitchen in the core, the primary suite in its own wing, a three-car garage","svg":"<img src=\"img/plan-main_f.jpg\" alt=\"Main level, seen from above with the levels over it taken away\" style=\"width:100%;height:auto;display:block;border-radius:10px\">"},{"id":"main_s","name":"Main level, side-entry garage","note":"The same rooms; the garage wing is re-proportioned and entered from a motor court at the side","svg":"<img src=\"img/plan-main_s.jpg\" alt=\"Main level, side-entry garage, seen from above with the levels over it taken away\" style=\"width:100%;height:auto;display:block;border-radius:10px\">"},{"id":"upper","name":"Upstairs","note":"1,224 sq ft: three bedrooms, two baths, the loft and a laundry; the office loft sits over the primary closet","svg":"<img src=\"img/plan-upper.jpg\" alt=\"Upstairs, seen from above with the levels over it taken away\" style=\"width:100%;height:auto;display:block;border-radius:10px\">"},{"id":"look","name":"Lookout","note":"224 sq ft: the lookout room on the roof, windows on all four sides","svg":"<img src=\"img/plan-look.jpg\" alt=\"Lookout, seen from above with the levels over it taken away\" style=\"width:100%;height:auto;display:block;border-radius:10px\">"},{"id":"bsmt_u","name":"Lower level","note":"Unfinished, as drawn: a safe room, mechanical space and rough-ins for a bath and a wet bar","svg":"<img src=\"img/plan-bsmt_u.jpg\" alt=\"Lower level, seen from above with the levels over it taken away\" style=\"width:100%;height:auto;display:block;border-radius:10px\">"},{"id":"bsmt_f","name":"Lower level, finished","note":"Lounge, bar, gym, bath and sauna, with the safe room, storage and mechanical space","svg":"<img src=\"img/plan-bsmt_f.jpg\" alt=\"Lower level, finished, seen from above with the levels over it taken away\" style=\"width:100%;height:auto;display:block;border-radius:10px\">"}],"lot":null,"specs":[{"h":"The home","items":["3,760 sq ft finished: 2,144 on the main level, 1,224 upstairs, a 168 sq ft office loft and the 224 sq ft lookout room","Four bedrooms and three and a half baths; the primary suite is on the main level in its own wing","The primary suite: a 20 x 20 bedroom with a door to the covered deck, a spa bath and a walk-in closet, about 800 sq ft in all","Three-car garage in a wing of its own, front entry or side entry","Core 34 x 36 ft, two stories; the garage wing 32 x 24 ft and the primary wing 20 x 46 ft are one story"]},{"h":"Rooms","items":["Main level: foyer, dining room, living room with a fireplace and a 12 ft slider to the covered deck, kitchen with a prep kitchen and pantry, mudroom, powder room, laundry","Upstairs: three bedrooms, two baths, a loft, a second laundry","An office loft over the primary closet, reached by its own spiral stair","The lookout room: 14 x 16 ft on the roof, windows on all four sides"]},{"h":"Heights and roof","items":["10 ft ceilings on the main level","Gable roofs with standing-seam accents over the porch, the lookout and the garage doors","Covered 16 x 14 ft deck off the living room; covered front porch on timber posts"]},{"h":"Inside finish","items":["Living room ceiling: nine coffers centred on the fireplace with a ring chandelier, painted or in oak; timber beams or a tray ceiling instead","Doors: 8 ft on the main level and 6 ft 8 in. upstairs, in three panel styles, every opening cased with a cap over the head","Crown molding as a choice on every level, classic or craftsman","Front door in four designs under a transom: glass over a panel, steel-look glass, craftsman with sidelights, or panelled","Baths: vanity cabinets and shower walls chosen apart from the kitchen","The loft over the primary closet as a home office, a library or a retreat"]},{"h":"Outside","items":["Board-and-batten siding with trim boards at corners and openings","Black-framed windows with grids","A full basement under the core"]}],"foot":["The pictures and the design studio on this page are computer renderings of a 3D model of the plan. Furniture, planting and the land around the house are illustrative; the plan is not drawn on a particular lot.","Finishes offered in the design studio are examples for planning, not a builder's price list. A builder's plan set and contract govern."],"tour":null,"model3d":{"src":"3d/","poster":"img/hero-day.jpg"}};
